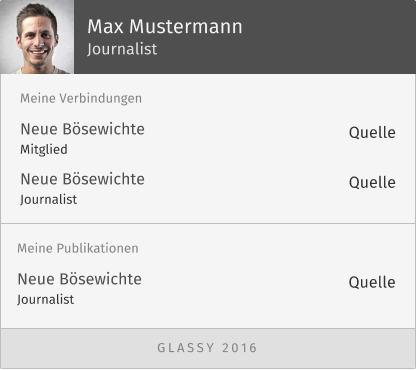
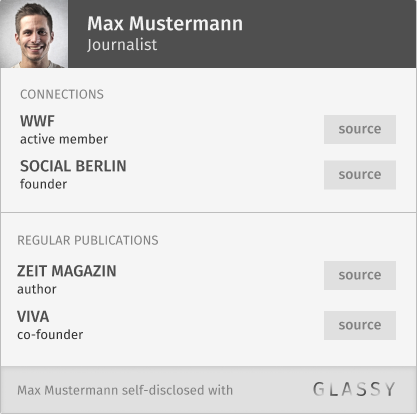
output design and content

diff --git a/client/main.html b/client/main.html
@@ -146,40 +146,46 @@
 </template>
 
 <template name="final">
-<h1 class="center-align">That's it! Here is your self-disclosure.</h1>
-<h2 class="center-align">Copy, paste and share it!</h2>
-<div class="divider"></div>
-<div class="row">
-  <div class="input-field col s12 m12 l10 offset-l1 left-align">
-    <h2 class="center-align">How do you want to share it?</h2>
-    <ul class="collapsible" data-collapsible="accordion">
-      <li>
-        <div class="collapsible-header active"><i class="material-icons">short_text</i>Plain Text</div>
-        <div class="collapsible-body">
-          <p><code>here is some nice code to copy</code><br>
-          <a class="btn spacer-top copy" data-clipboard-text="here is some nice code to copy">Copy to Clipboard</a></p>
-        </div>
-      </li>
-      <li>
-        <div class="collapsible-header"><i class="material-icons">picture_in_picture</i>Web Component</div>
-        <div class="collapsible-body">
-          <p><code>here too</code><br>
-          <a class="btn spacer-top copy" data-clipboard-text="here too">Copy to Clipboard</a></p>
-        </div>
-      </li>
-    </ul>
-  </div>
-  <div class="input-field col s12 m12 l10 offset-l1 left-align">
-    <h2 class="center-align">And that's how it looks live.</h2>
-    <img src="Group.png">
-  </div>
-</div>
-<div class="row">
+  <h1 class="center-align">
+    That's it! Here is your self-disclosure.
+  </h1>
+  <h2 class="center-align">Copy, paste and share it!</h2>
   <div class="divider"></div>
-  <div class="spacer-big row">
-    <div class="col s12 center-align">
-      <i class="material-icons">share</i>
+  <div class="row">
+    <div class="input-field col s12 m12 l10 offset-l1 left-align">
+      <ul class="collapsible" data-collapsible="accordion">
+        <li>
+          <div class="collapsible-header"><i class="material-icons">photo</i>Image</div>
+          <div class="collapsible-body left-align">
+            <div class="center-align">
+              <p style="padding-bottom: 0;"><img src="Group.png"></p>
+            </div>
+            <p><a class="btn copy" data-clipboard-text="here too">Copy to Clipboard</a></p>
+          </div>
+        </li>
+        <li>
+          <div class="collapsible-header active"><i class="material-icons">short_text</i>Plain Text</div>
+          <div class="collapsible-body">
+            <p>Max is journalist and active member @ WWF and founder @ SOCIAL BERLIN. You can found his regular publications @ ZEIT MAGAZIN and @ VIVA. [self-disclosure, 2016]<br>
+            <a class="btn spacer-top copy" data-clipboard-text="here is some nice code to copy">Copy to Clipboard</a></p>
+          </div>
+        </li>
+        <li>
+          <div class="collapsible-header"><i class="material-icons">picture_in_picture</i>Web Component</div>
+          <div class="collapsible-body">
+            <p><code>here too</code><br>
+            <a class="btn spacer-top copy" data-clipboard-text="here too">Copy to Clipboard</a></p>
+          </div>
+        </li>
+      </ul>
     </div>
   </div>
-</div>
+  <div class="row">
+    <div class="divider"></div>
+    <div class="spacer-big row">
+      <div class="col s12 center-align">
+        <i class="material-icons">share</i>
+      </div>
+    </div>
+  </div>
 </template>

diff --git a/client/sass/general.scss b/client/sass/general.scss
@@ -2,20 +2,20 @@
 
 body {
   //background: url("back.jpg");
-  @extend .blue-grey;
+  @extend .indigo;
   font-family: 'Fira Sans';
   font-size: 18px;
 }
 
 h1 {
   font-size: 1.25em;
-  margin: 2em 0 .4em;
+  margin: 2em 0 .35em;
 }
 
 h2 {
   font-size: .8em;
   @extend .grey-text;
-  margin-top: .4em;
+  margin-top: .35em;
 }
 
 strong {

diff --git a/client/sass/components.scss b/client/sass/components.scss
@@ -36,3 +36,9 @@
 .description {
   font-size: .8em;
 }
+
+// Materialize Fix
+
+.collapsible {
+  box-shadow: none !important;
+}
